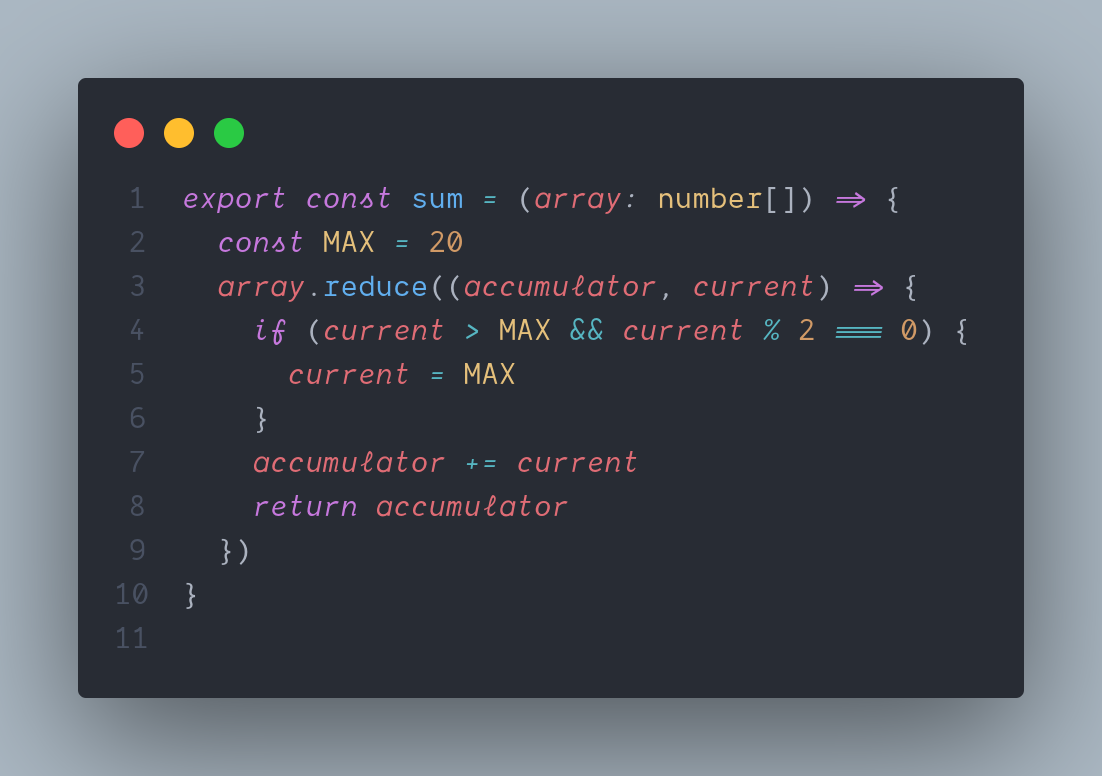
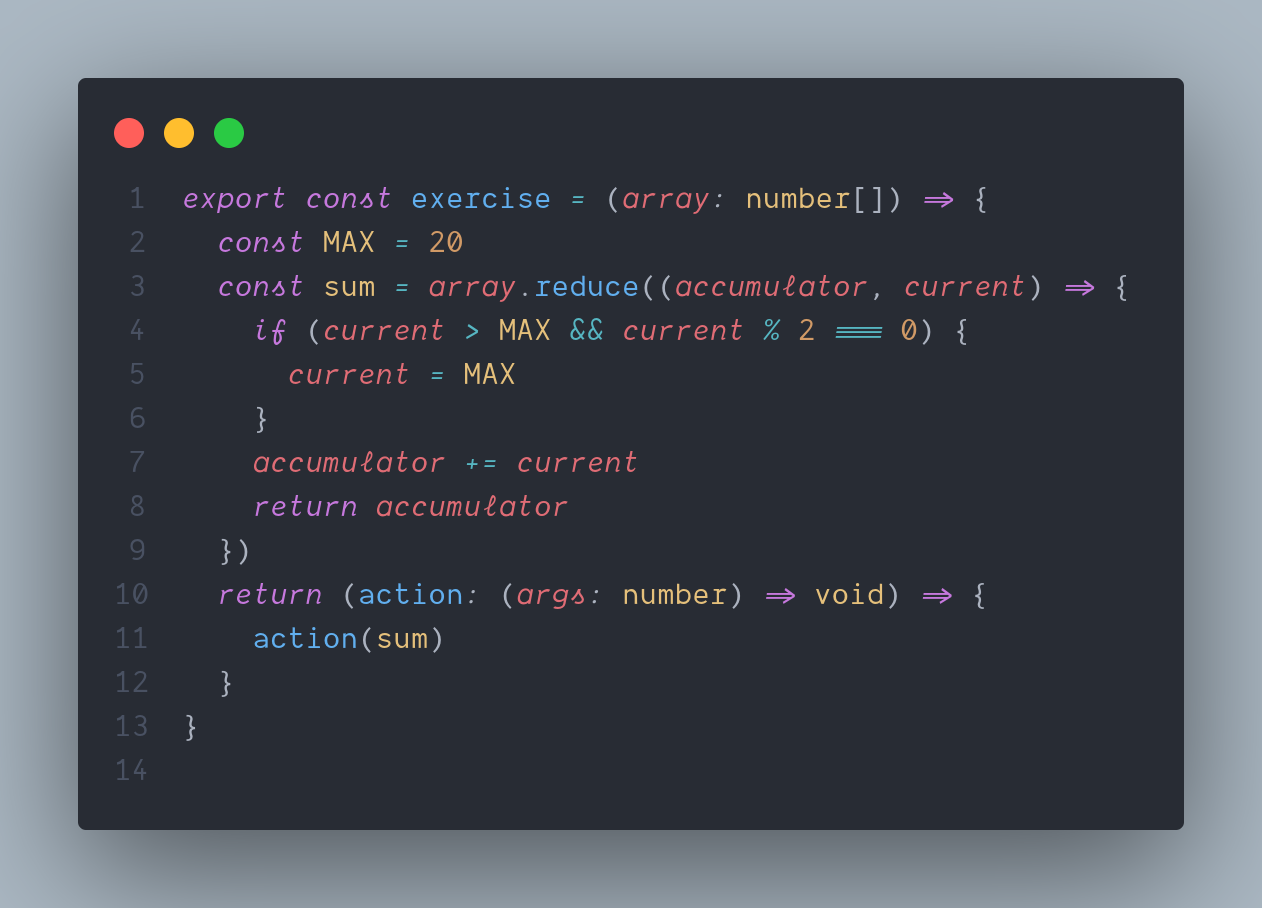
fixed exercise 1

diff --git a/ejercicios/ejercicio1.ts b/ejercicios/ejercicio1.ts
@@ -1,10 +1,13 @@
-export const sum = (array: number[]) => {
+export const exercise = (array: number[]) => {
   const MAX = 20
-  array.reduce((accumulator, current) => {
+  const sum = array.reduce((accumulator, current) => {
     if (current > MAX && current % 2 === 0) {
       current = MAX
     }
     accumulator += current
     return accumulator
   })
+  return (action: (args: number) => void) => {
+    action(sum)
+  }
 }
